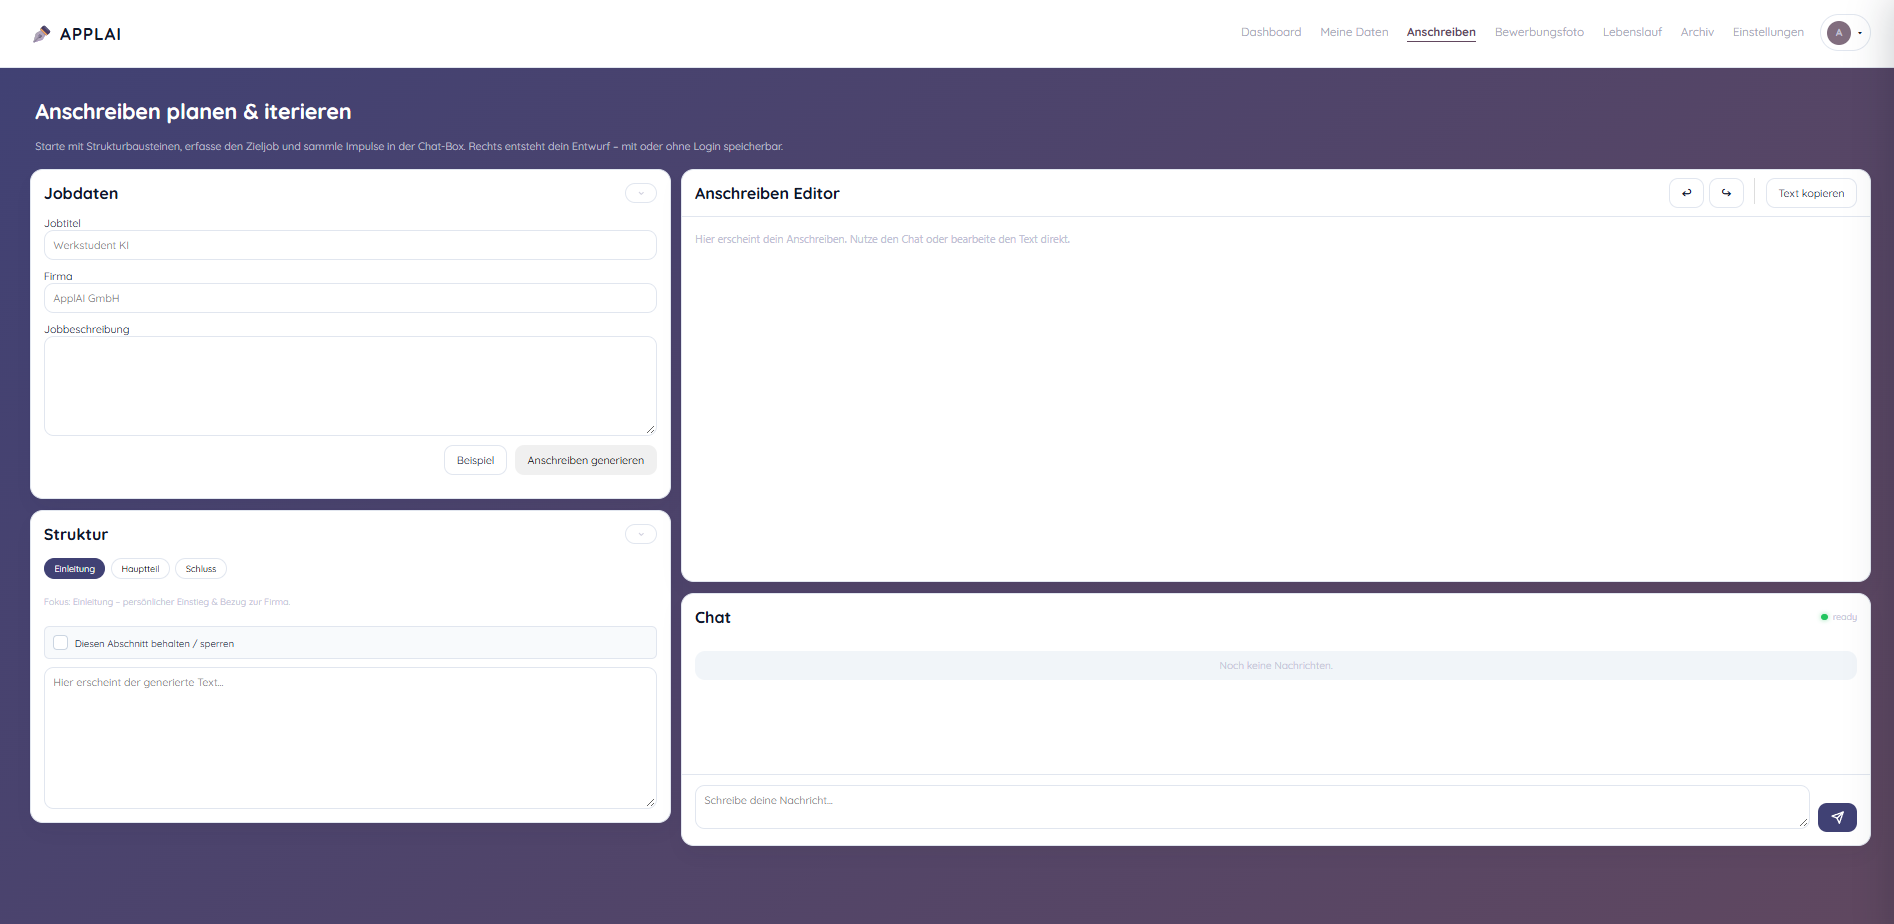
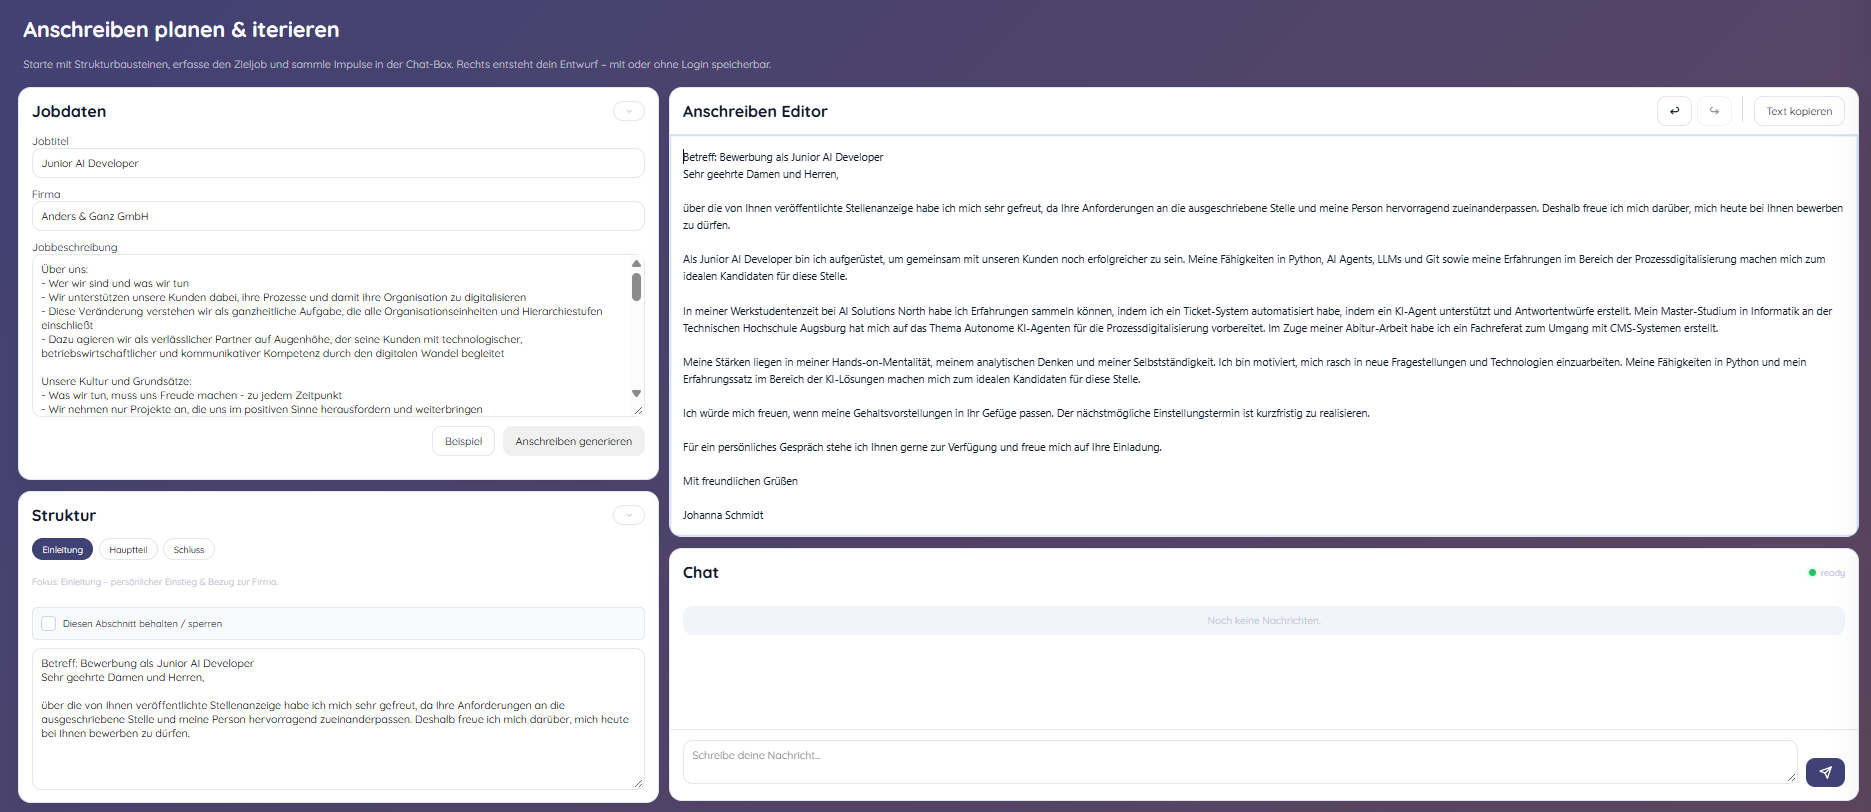
ADD visuals for the readme to explain the workflow of the project

diff --git a/README.md b/README.md
@@ -25,11 +25,23 @@ ApplAI entstand als Teamprojekt im Rahmen des Studiums an der Technischen Hochsc
 
 ## Vorschau
 
-### Anschreiben planen & iterieren
+### Anschreiben planen & iterieren *(Eigener Schwerpunkt)*
 ![Anschreiben-Editor](screenshots/anschreiben.png)
 
-### KI-Bewerbungsfoto-Generator (ComfyUI)
-![Bewerbungsfoto-Generator](screenshots/bewerbungsfoto.png)
+### KI-Bewerbungsfoto-Generator via ComfyUI *(Eigener Schwerpunkt)*
+![Bewerbungsfoto-Generator](screenshots/bewerbungsfoto.jpg)
+
+<details>
+<summary><strong>Weitere Ansichten der Gesamtanwendung anzeigen (Meine Daten & Lebenslauf)</strong></summary>
+<br>
+
+#### Stammdaten, Stationen & Kompetenzen
+![Meine Daten](screenshots/meine_daten.jpg)
+
+#### Individualisierbarer Lebenslauf & PDF-Export
+![Lebenslauf-Generator](screenshots/lebenslauf.png)
+
+</details>
 
 ---
 
@@ -90,8 +102,13 @@ python manage.py runserver
 ### 3. Optionale KI-Backends (Ollama & ComfyUI)
 
 Für die KI-Funktionen müssen die jeweiligen lokalen Dienste erreichbar sein:
+
 * **Anschreiben-Generierung & Chat:** Laufende Ollama-Instanz unter `http://127.0.0.1:11434`.
-* **Bewerbungsfotos:** Laufende ComfyUI-Instanz unter `http://127.0.0.1:8188` mit installiertem Checkpoint (z. B. `sdxl_base_1.0.safetensors` oder `realvisxlV50_v50LightningBakedvae.safetensors`). Über Umgebungsvariablen (`.env`) lassen sich `COMFYUI_BASE_URL`, `COMFYUI_CHECKPOINT`, `COMFYUI_PHOTO_PROMPT`, `COMFYUI_NEGATIVE_PROMPT`, `COMFYUI_STEPS` und `COMFYUI_TIMEOUT` anpassen.
+* **Bewerbungsfotos (ComfyUI unter `http://127.0.0.1:8188`):**
+  * **Custom Nodes** in `ComfyUI/custom_nodes/`: `comfyui_controlnet_aux` und `ComfyUI-ClipSeg` (inkl. `scikit-image` und `opencv-python-headless`)
+  * **Checkpoint** in `ComfyUI/models/checkpoints/`: `RealVisXL V5.0` (`.safetensors`)
+  * **ControlNet** in `ComfyUI/models/controlnet/`: ControlNet Canny SDXL (gespeichert als `diffusion_pytorch_model.fp16.safetensors`)
+  * Über eine `.env`-Datei lassen sich bei Bedarf `COMFYUI_BASE_URL`, `COMFYUI_CHECKPOINT`, `COMFYUI_PHOTO_PROMPT`, `COMFYUI_NEGATIVE_PROMPT`, `COMFYUI_STEPS` und `COMFYUI_TIMEOUT` anpassen.
 
 ---
 
